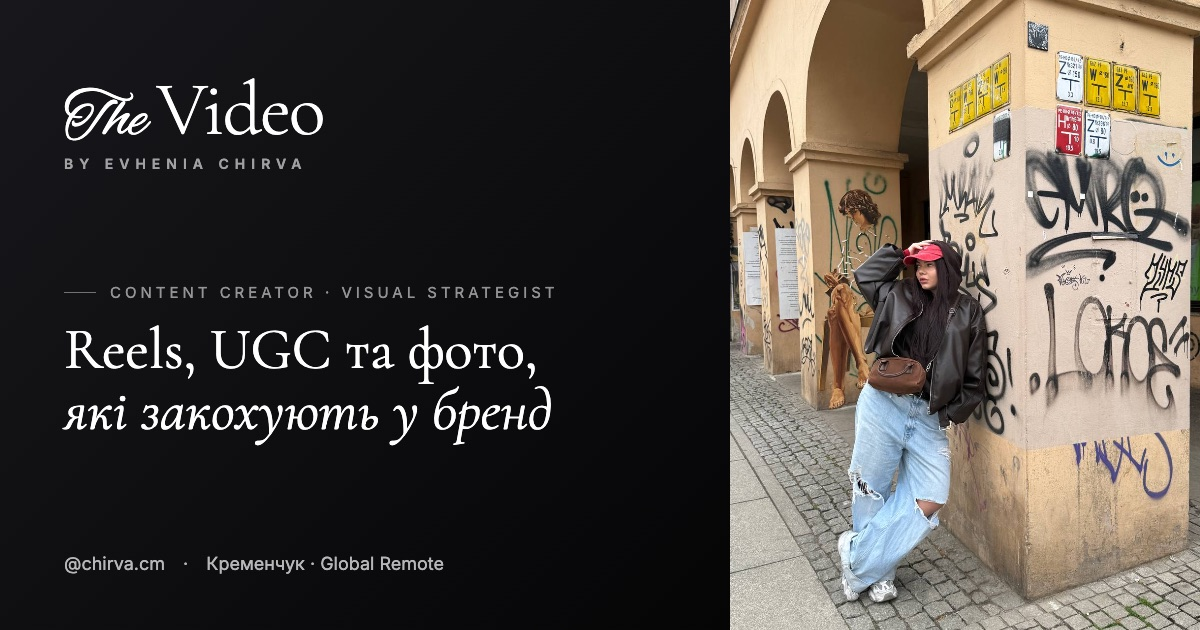
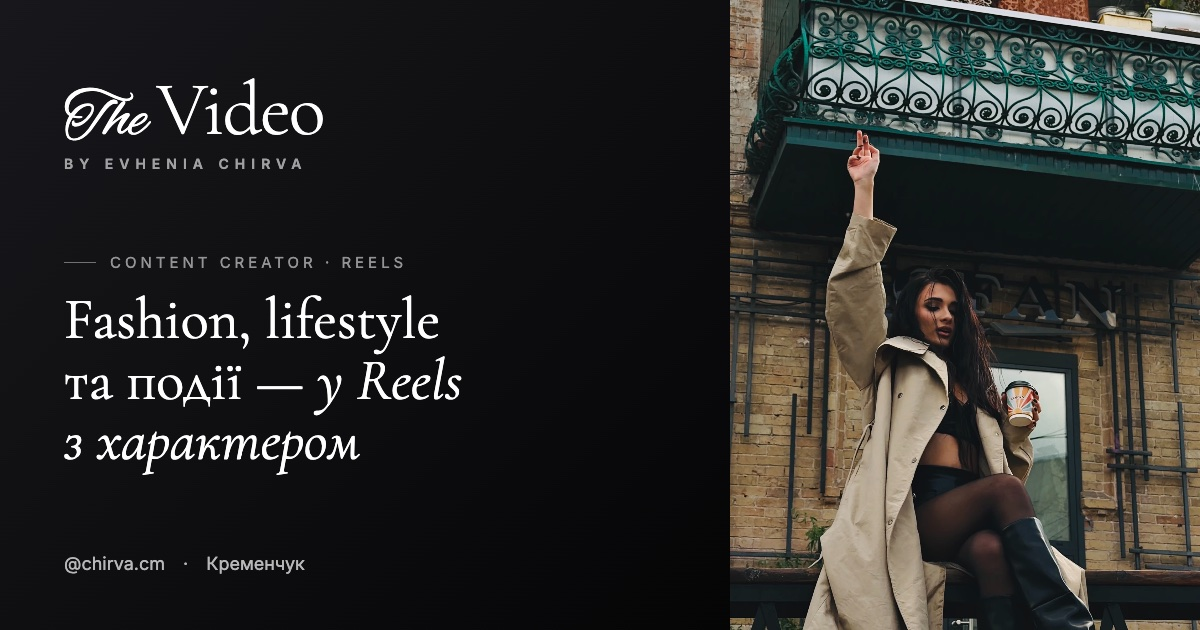
feat: new social preview image matching current copy
Balcony/trench portrait, "Fashion, lifestyle та події — у Reels з характером";
og:image URL versioned (?v=2) so Telegram/Facebook refresh their cache.

diff --git a/src/seo.ts b/src/seo.ts
@@ -7,8 +7,8 @@ export const SEO = {
   title: 'Женя Чирва — контент-мейкерка: Reels, fashion та lifestyle зйомки',
   description:
     'Естетичні Reels, fashion та lifestyle зйомки, відео з весіль і подій. Контент-мейкерка Женя Чирва, Кременчук.',
-  ogImage: '/og-image.jpg',
-  ogImageAlt: 'The Video by Evhenia Chirva — Reels, UGC та фото, які закохують у бренд',
+  ogImage: '/og-image.jpg?v=2', // bump ?v= when the image changes — resets social-network caches
+  ogImageAlt: 'The Video by Evhenia Chirva — fashion, lifestyle та події у Reels з характером',
   locale: 'uk_UA',
 };
 
